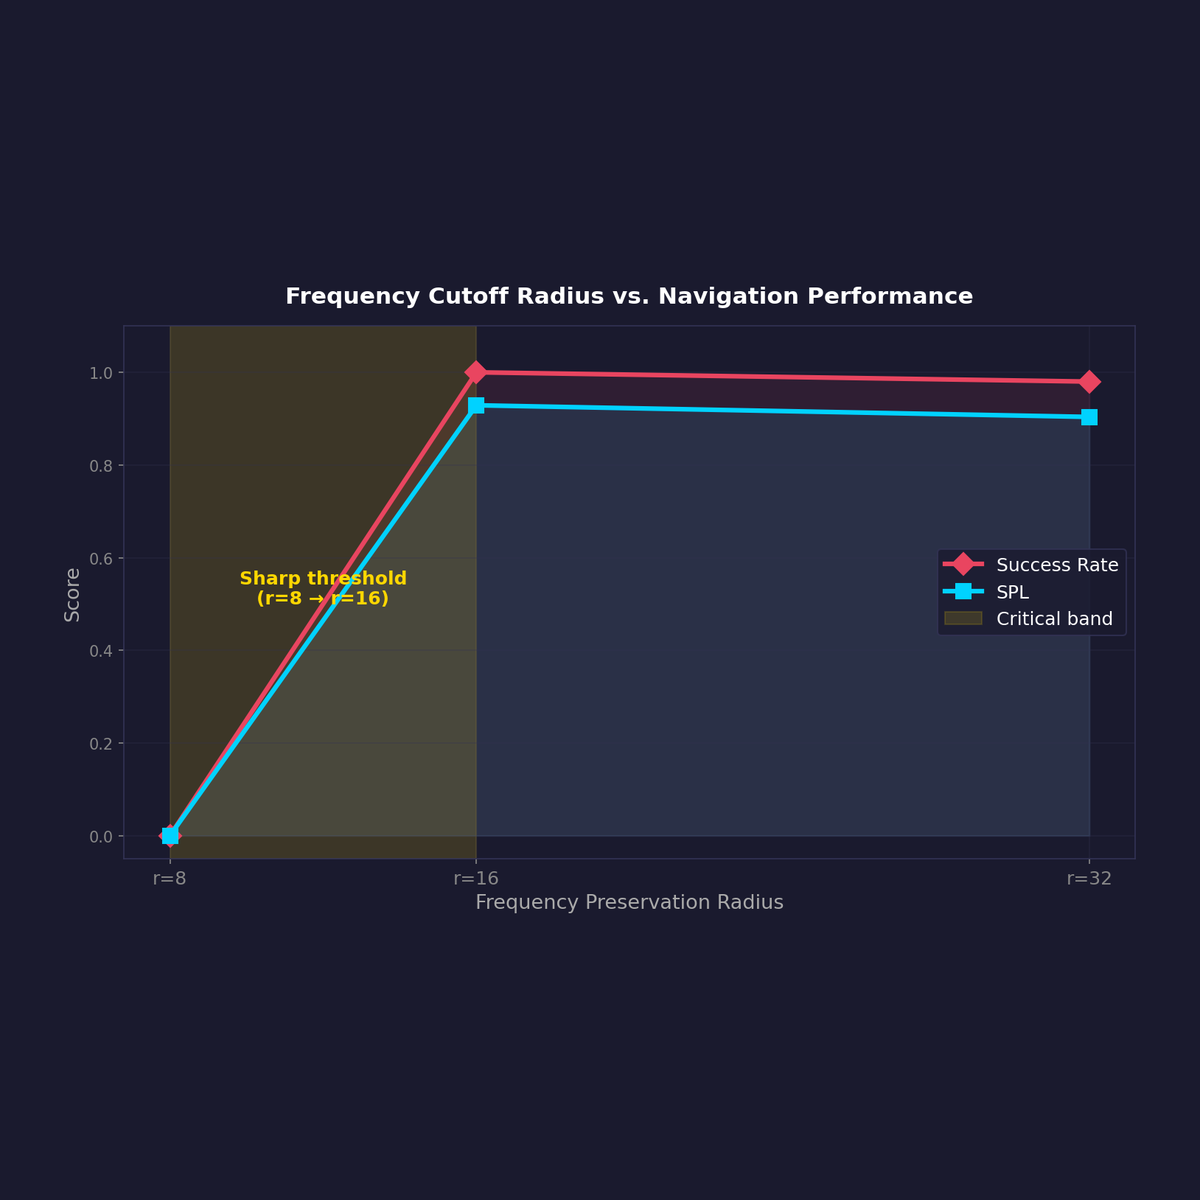
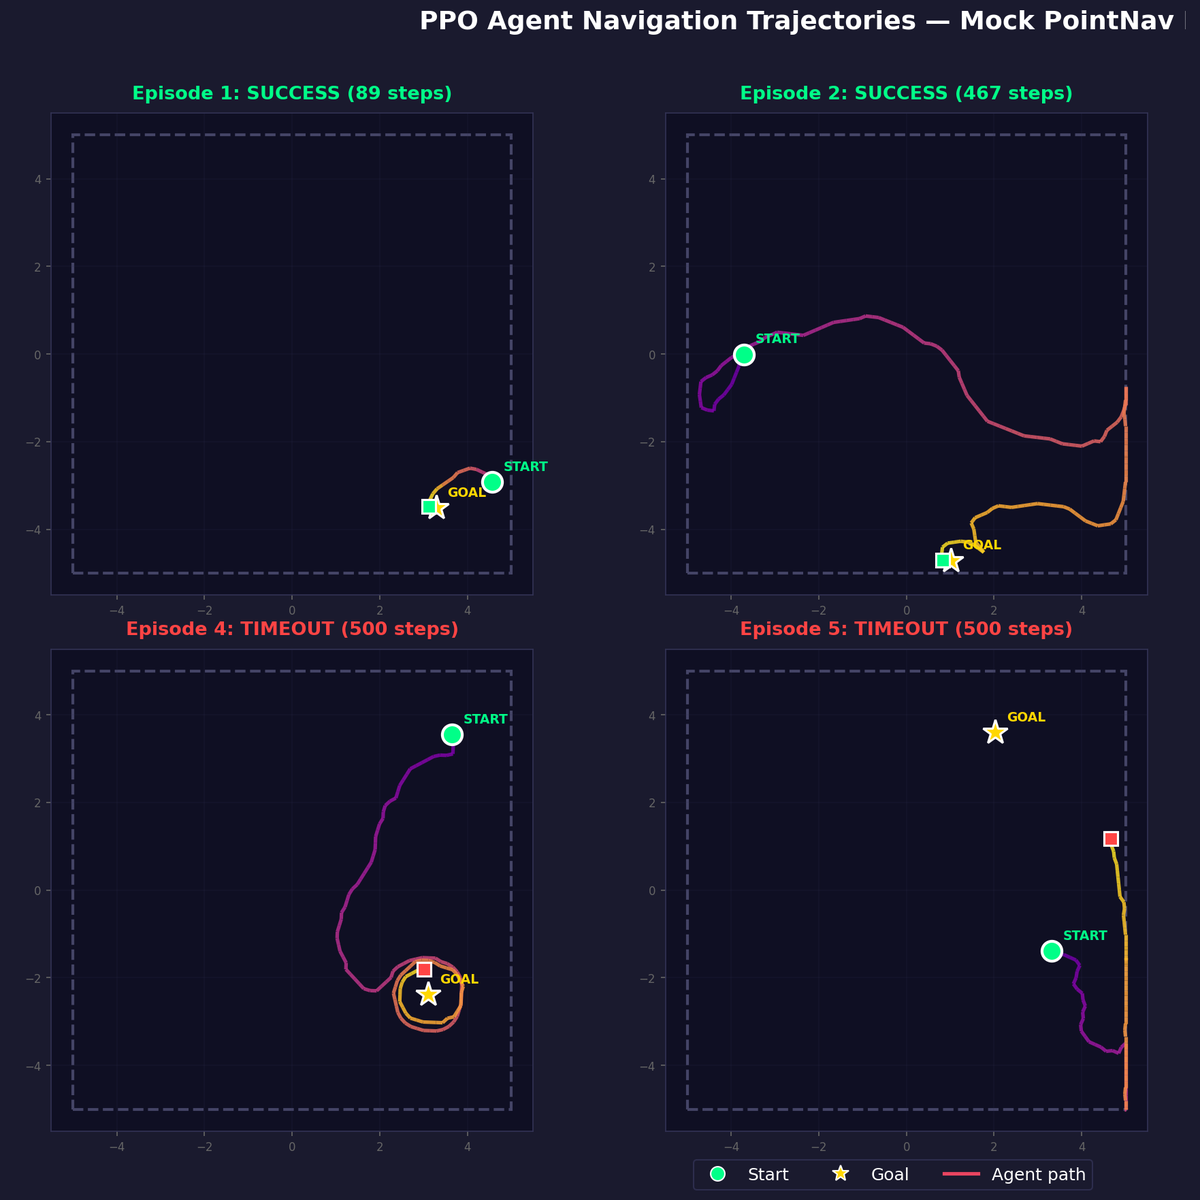
Add a method figure and use trajectories for the project card
Show what the frequency perturbation actually does, rather than leaving
the reader to infer it from the ablation numbers.

The figure runs the repo's own operator on a real observation: a numpy
port of _freq_adapt_py from src/train/frequency_adapt.py, applied to a
frame from mock_env.py::_render_obs. The bearing and distance stripes
are four pixels wide on a 224 pixel frame, so the whole goal signal sits
high in the spectrum. At r=8 both smear into the background; at r=16
they are legible again. That is the 0% to 100% jump, made visible.

Swap the project card to the navigation trajectory grid, cropped to its
left two columns, which is already square at 1721x1763 and needs no
padding. Every figure in the repo now appears somewhere, none twice.

diff --git a/_projects/5_project.md b/_projects/5_project.md
@@ -48,6 +48,15 @@ Observations are encoded rather than photographic. The red channel carries goal 
     A successful episode, with its observations at four points
 </div>
 
+Those stripes are four pixels wide on a 224 pixel frame, which puts the whole goal signal high in the spectrum. Running the perturbation on a real observation shows what each cutoff costs.
+
+<div class="row">
+    {% include figure.liquid loading="eager" path="assets/img/freqnav/freqnav_method.png" alt="The same mock observation at four settings: unfiltered with crisp stripes, radius 8 where both stripes smear into the background, radius 16 where they are legible again, and radius 32 which is close to the original" title="Frequency perturbation across cutoff radii" class="img-fluid rounded z-depth-1" zoomable=true %}
+</div>
+<div class="caption">
+    The same observation under each cutoff radius
+</div>
+
 ## Stack
 
 | Area             | Tools                                          |
